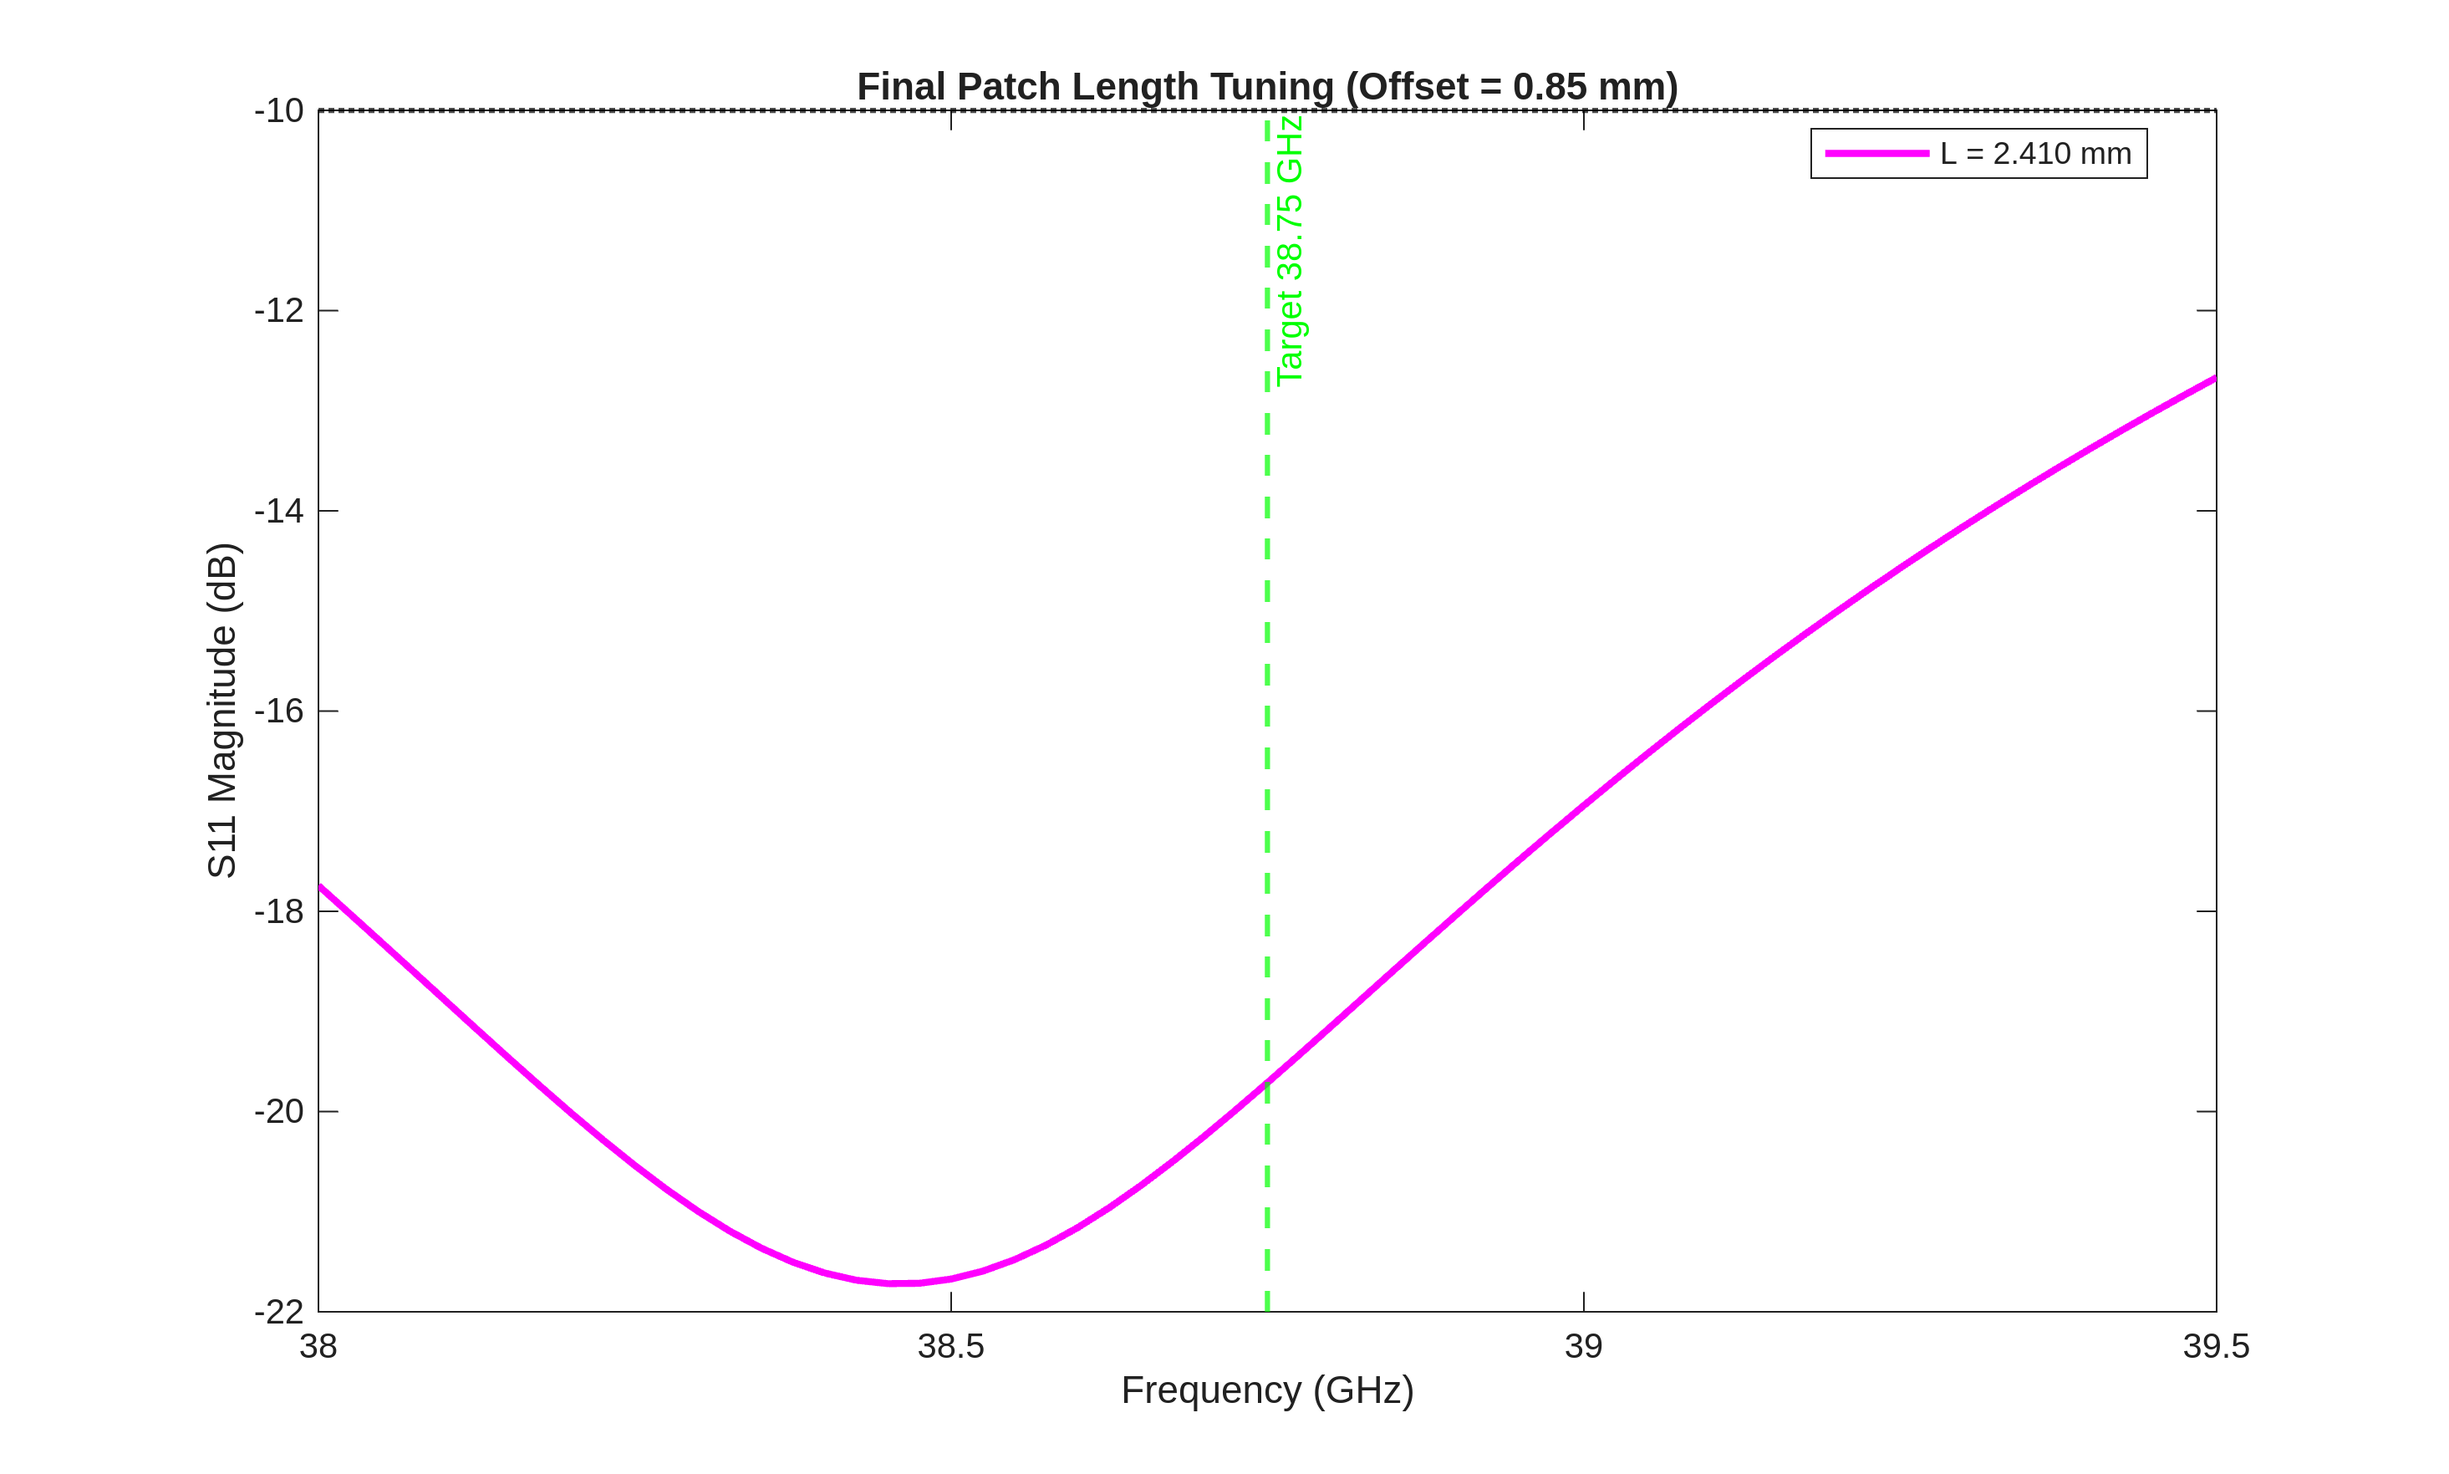
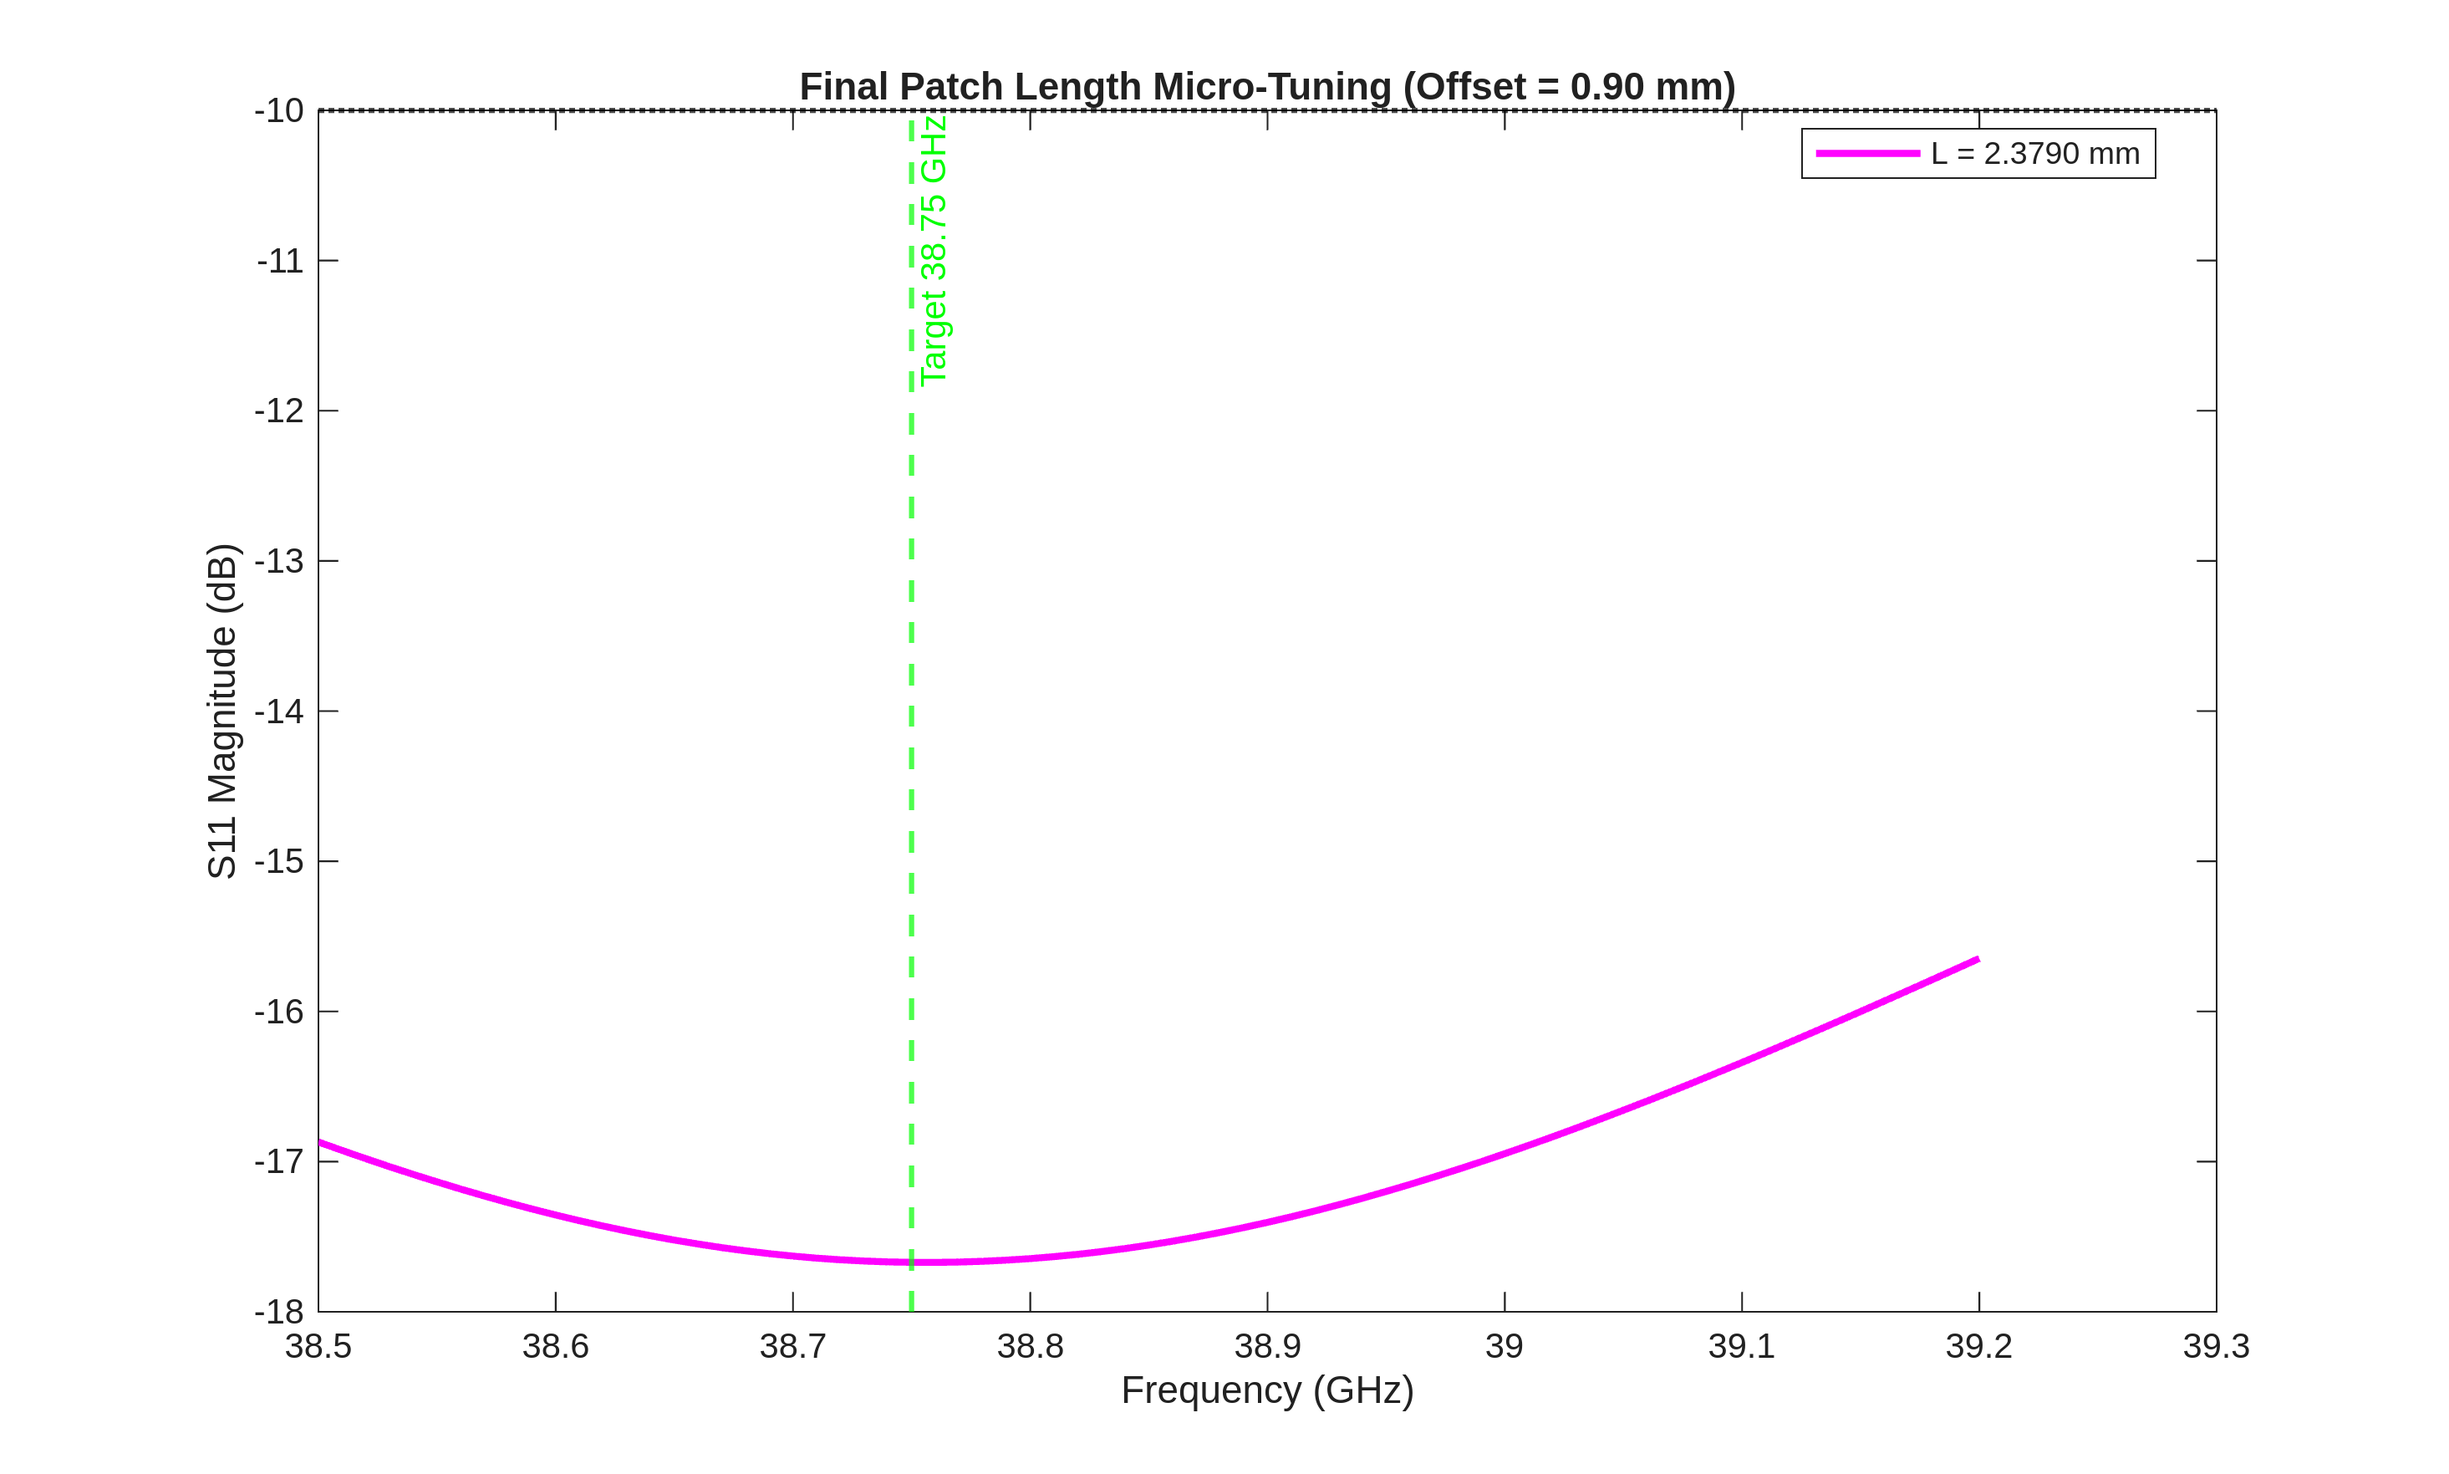
feat(fine-tuned): fine-tune length: 0.002381 and offset: 0.00090 -> 61.04 +9.07i Ohms

diff --git a/small_scale_channel_tracking/data/ant_config_finetuning/tune_feed_39GHz.m b/small_scale_channel_tracking/data/ant_config_finetuning/tune_feed_39GHz.m
@@ -1,27 +1,24 @@
 %% tune_feed_39GHz.m
 clear;
 
-% 1. Target and Sweep Range (Slightly wider to catch upward shifts)
+% 1. High-Resolution Sweep Range
 targetFreq = 38.75e9;
-f_sweep = linspace(38.0e9, 40.0e9, 41); 
+f_sweep = linspace(38.6e9, 38.9e9, 61); % Zoomed in!
 
-% 2. Lock in our optimized length
-best_L = 0.002243; % 2.243 mm
+% 2. Lock in our perfect length!
+best_L = 0.002360; % 2.360 mm
 
-% 3. Follow the trend OUTWARD
-% Testing 0.55, 0.65, 0.75, 0.85, 0.95 mm
-offsets_to_test = [0.00055, 0.00065, 0.00075, 0.00085, 0.00095]; 
+% 3. Test larger feed offsets to bring 68 Ohms down to 50 Ohms
+offsets_to_test = [0.00085, 0.00090, 0.00095, 0.00100]; 
 
-% Pre-allocate storage
 S11_results = zeros(length(offsets_to_test), length(f_sweep));
 
-fprintf('\n=== Starting Feed Offset Optimization Sweep ===\n');
+fprintf('\n=== Final Feed Offset Micro-Tuning ===\n');
 
 for i = 1:length(offsets_to_test)
     feed_x = offsets_to_test(i);
     fprintf('Testing Feed Offset = %.2f mm...\n', feed_x*1000);
     
-    % Build Antenna
     p = patchMicrostrip;
     p.Length = best_L;
     p.Width = 0.0031;
@@ -33,28 +30,26 @@ for i = 1:length(offsets_to_test)
     
     p.GroundPlaneLength = 0.005;
     p.GroundPlaneWidth = 0.0058;
-    p.FeedOffset = [feed_x, 0]; % Applying the changing offset
+    p.FeedOffset = [feed_x, 0]; 
 
-    % Fast mesh setting
     c = 299792458;
     mesh(p, 'MaxEdgeLength', (c/targetFreq) / 6);
     
-    % Calculate S-parameters
     S_obj = sparameters(p, f_sweep);
     S11_dB = squeeze(20*log10(abs(S_obj.Parameters(1,1,:))));
-    
-    % Store for plotting later
     S11_results(i, :) = S11_dB;
     
-    % Print peak to console
     [min_S11, min_idx] = min(S11_dB);
-    fprintf('  -> Peak S11 = %.2f dB at %.3f GHz\n', min_S11, f_sweep(min_idx)/1e9);
+    Z_target = impedance(p, targetFreq);
+    
+    % Print both the peak and the impedance at our target!
+    fprintf('  -> Peak S11 = %.2f dB at %.3f GHz | Z = %.2f %+.2fi Ohms\n', ...
+        min_S11, f_sweep(min_idx)/1e9, real(Z_target), imag(Z_target));
 end
 
-% --- Plot everything ---
 fig = figure('Visible', 'off');
 hold on; grid on;
-colors = {'r', 'b', 'g', 'm', 'c'};
+colors = {'r', 'b', 'g', 'm'};
 
 for i = 1:length(offsets_to_test)
     plot(f_sweep/1e9, S11_results(i, :), 'Color', colors{i}, 'LineWidth', 2, ...
@@ -63,18 +58,18 @@ end
 
 xline(targetFreq/1e9, 'k--', 'Target 38.75 GHz', 'LineWidth', 1.5, 'HandleVisibility', 'off');
 yline(-10, 'k:', 'Good Match (-10 dB)', 'LineWidth', 1.5, 'HandleVisibility', 'off');
+yline(-20, 'k:', 'Excellent Match (-20 dB)', 'LineWidth', 1.5, 'HandleVisibility', 'off');
 
 xlabel('Frequency (GHz)');
 ylabel('S11 Magnitude (dB)');
 legend('Location', 'best');
-title('Feed Offset Optimization for 38.75 GHz');
+title('Final Feed Offset Micro-Tuning');
 
-% Save the plot
 output_dir = 'S_results';
 if ~exist(output_dir, 'dir')
     mkdir(output_dir);
 end
-filename = sprintf('%s/Feed_Tuning_38.75GHz.png', output_dir);
+filename = sprintf('%s/Final_Feed_Tuning_38.75GHz.png', output_dir);
 print(fig, filename, '-dpng', '-r300');
 close(fig);
 

diff --git a/small_scale_channel_tracking/data/ant_config_finetuning/tune_length_39GHz.m b/small_scale_channel_tracking/data/ant_config_finetuning/tune_length_39GHz.m
@@ -3,23 +3,23 @@ clear;
 
 % 1. Define Target and Sweep Range
 targetFreq = 38.75e9;
-f_sweep = linspace(38.0e9, 39.5e9, 61);
+f_sweep = linspace(38.5e9, 39.2e9, 71); % Zoomed in!
 
-% 2. Lock in our best Feed Offset
-best_feed = 0.00085; % 0.85 mm
+% 2. Lock in our perfect Feed Offset
+best_feed = 0.00090; % 0.90 mm
 
-% 3. Test longer lengths to hit 38.75 GHz
-lengths_to_test = [0.00237, 0.00239, 0.00241]; 
+% 3. Test slightly longer lengths to hit exactly 38.75 GHz
+lengths_to_test = [0.002375, 0.002377, 0.002379]; 
 
 fig = figure('Visible', 'off');
 hold on; grid on;
 colors = {'r', 'b', 'm'};
 
-fprintf('\n=== Final Length Re-Tuning Sweep ===\n');
+fprintf('\n=== Final Length Micro-Tuning Sweep ===\n');
 
 for i = 1:length(lengths_to_test)
     L = lengths_to_test(i);
-    fprintf('Testing Length = %.3f mm...\n', L*1000);
+    fprintf('Testing Length = %.4f mm...\n', L*1000);
     
     p = patchMicrostrip;
     p.Length = L;
@@ -32,7 +32,7 @@ for i = 1:length(lengths_to_test)
     
     p.GroundPlaneLength = 0.005;
     p.GroundPlaneWidth = 0.0058;
-    p.FeedOffset = [best_feed, 0]; % Using the locked 0.85mm offset
+    p.FeedOffset = [best_feed, 0]; % Using the golden 0.90mm offset
 
     c = 299792458;
     mesh(p, 'MaxEdgeLength', (c/targetFreq) / 6);
@@ -41,10 +41,10 @@ for i = 1:length(lengths_to_test)
     S11_dB = squeeze(20*log10(abs(S_obj.Parameters(1,1,:))));
     
     [min_S11, min_idx] = min(S11_dB);
-    fprintf('  -> Peak at %.3f GHz (S11 = %.2f dB)\n', f_sweep(min_idx)/1e9, min_S11);
+    fprintf('  -> Peak at %.4f GHz (S11 = %.2f dB)\n', f_sweep(min_idx)/1e9, min_S11);
     
     plot(f_sweep/1e9, S11_dB, 'Color', colors{i}, 'LineWidth', 2, ...
-        'DisplayName', sprintf('L = %.3f mm', L*1000));
+        'DisplayName', sprintf('L = %.4f mm', L*1000));
 end
 
 xline(targetFreq/1e9, 'g--', 'Target 38.75 GHz', 'LineWidth', 1.5, 'HandleVisibility', 'off');
@@ -53,7 +53,7 @@ yline(-10, 'k:', 'Good Match (-10 dB)', 'LineWidth', 1.5, 'HandleVisibility', 'o
 xlabel('Frequency (GHz)');
 ylabel('S11 Magnitude (dB)');
 legend('Location', 'best');
-title('Final Patch Length Tuning (Offset = 0.85 mm)');
+title('Final Patch Length Micro-Tuning (Offset = 0.90 mm)');
 
 output_dir = 'S_results';
 if ~exist(output_dir, 'dir')

diff --git a/small_scale_channel_tracking/data/ant_config_finetuning/single_antenna/createPatchAntenna_39GHz.m b/small_scale_channel_tracking/data/ant_config_finetuning/single_antenna/createPatchAntenna_39GHz.m
@@ -11,7 +11,7 @@ function p = createPatchAntenna_39GHz()
     % Object Construction
     p = patchMicrostrip;
     % Dimensions from calculation
-    p.Length = 0.002360;     % 2.368 mm (Micro-adjusted from 2.370)
+    p.Length = 0.002381;     
     p.Width = 0.0031;      % W = 3.1 mm
     p.Height = height;     % h = 0.5 mm
     % Substrate Configuration
@@ -25,5 +25,5 @@ function p = createPatchAntenna_39GHz()
     % MATLAB FeedOffset is [x y] from the center of the patch.
     % To match 50 Ohm at x0 = 0.7mm from the edge:
     % Offset = (Length/2) - x0 => (2.3/2) - 0.7 = 0.45 mm
-    p.FeedOffset = [0.00085, 0];
+    p.FeedOffset = [0.00090, 0];
 end
